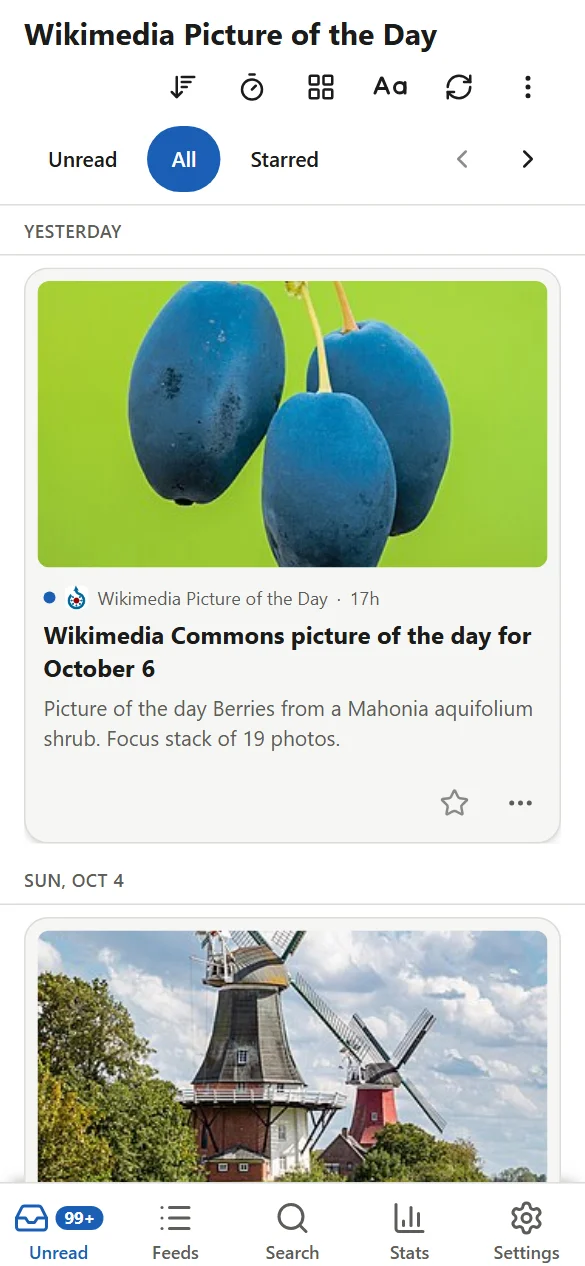
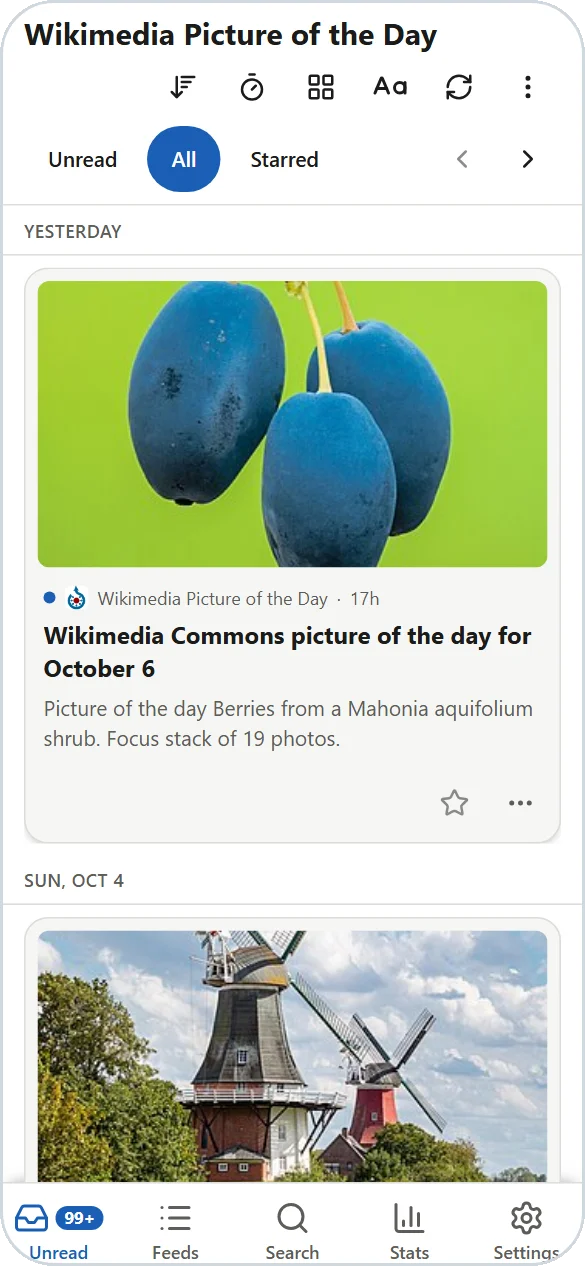
docs: center and frame the README screenshots, new opening line
The phone shot sat left in a cell stretched by its caption, and its white
background blended into the page. The table cells now fix their width and
center the image, and the README shots get rounded corners and a border in
GitHub's border colors.

Changed region(s): [[0.9538, 0.0, 1.0, 0.9858], [0.0, 0.0, 0.0308, 0.9858], [0.0308, 0.9858, 0.9846, 1.0]]

diff --git a/README.md b/README.md
@@ -4,7 +4,7 @@
 >
 > Philip K. Dick, *Do Androids Dream of Electric Sheep?* (1968)
 
-A self-hosted RSS reader. One Docker container, one port, one SQLite database.
+A self-hosted RSS reader. That I want to use.
 
 [![CI](https://github.com/WPTK/Kipple/actions/workflows/ci.yml/badge.svg)](https://github.com/WPTK/Kipple/actions/workflows/ci.yml)
 [![Release](https://img.shields.io/github/v/release/WPTK/Kipple?include_prereleases&label=release)](https://github.com/WPTK/Kipple/releases)
@@ -13,13 +13,13 @@ A self-hosted RSS reader. One Docker container, one port, one SQLite database.
 
 <table>
   <tr>
-    <td valign="bottom">
+    <td width="560" align="center" valign="bottom">
       <picture>
         <source media="(prefers-color-scheme: dark)" srcset="docs/screenshots/desktop-dark.webp">
         <img src="docs/screenshots/desktop-light.webp" alt="Kipple in a desktop browser: feeds on the left, a list of articles with thumbnails in the middle, and an article open on the right." width="560">
       </picture>
     </td>
-    <td valign="bottom">
+    <td width="170" align="center" valign="bottom">
       <picture>
         <source media="(prefers-color-scheme: dark)" srcset="docs/screenshots/phone-dark.webp">
         <img src="docs/screenshots/phone-light.webp" alt="Kipple on a phone: article cards with large photos, one per row, and a tab bar along the bottom." width="170">
@@ -27,8 +27,8 @@ A self-hosted RSS reader. One Docker container, one port, one SQLite database.
     </td>
   </tr>
   <tr>
-    <td><sub><b>Web app.</b> Feeds on the left, the article list in the middle, the open article on the right.</sub></td>
-    <td><sub><b>On a phone.</b> Add Kipple to the home screen and it opens full screen, like an app.</sub></td>
+    <td width="560" align="center"><sub><b>Web app.</b> Feeds on the left, the article list in the middle, the open article on the right.</sub></td>
+    <td width="170" align="center"><sub><b>On a phone.</b> Add Kipple to the home screen and it opens full screen, like an app.</sub></td>
   </tr>
 </table>
 
